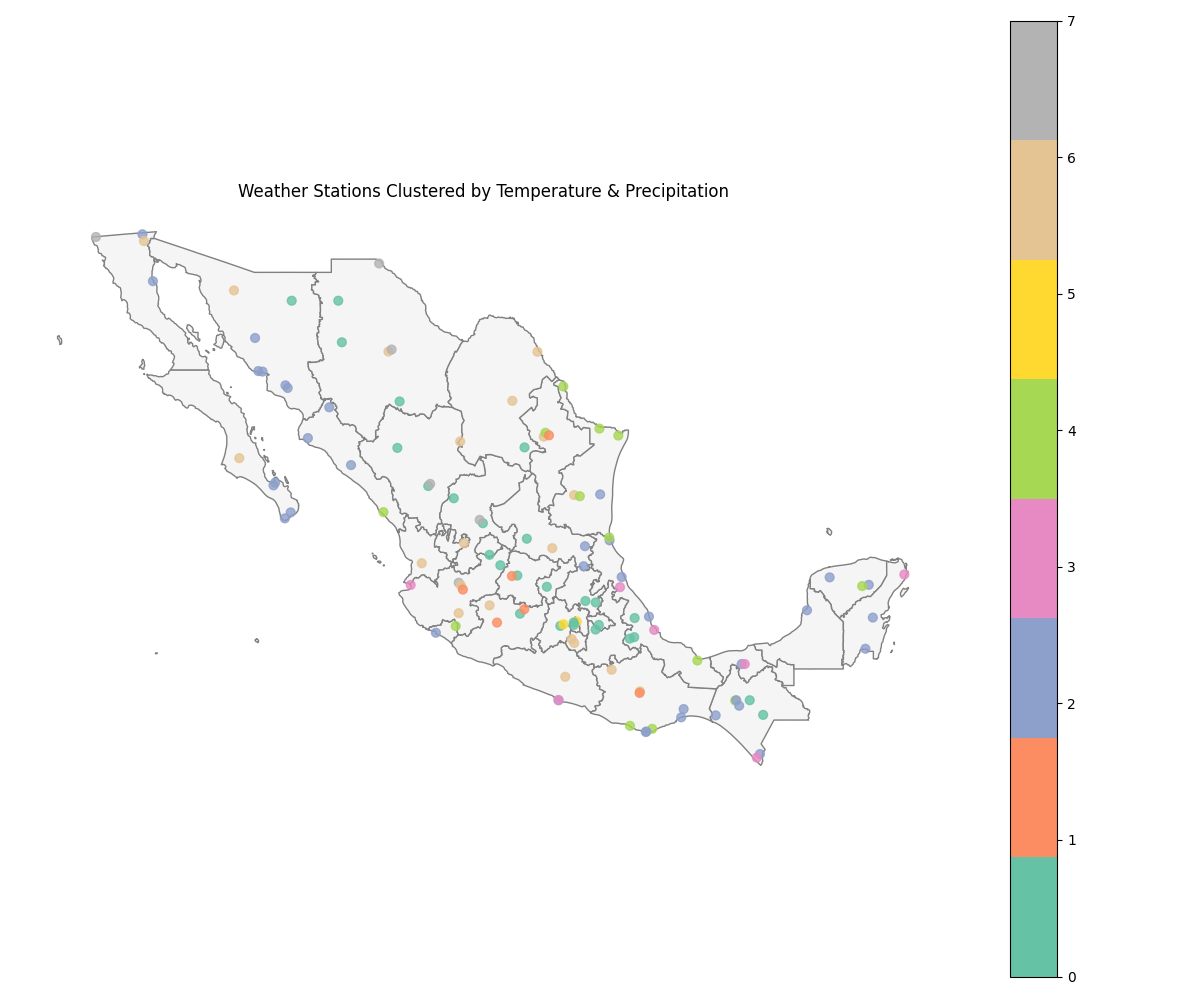
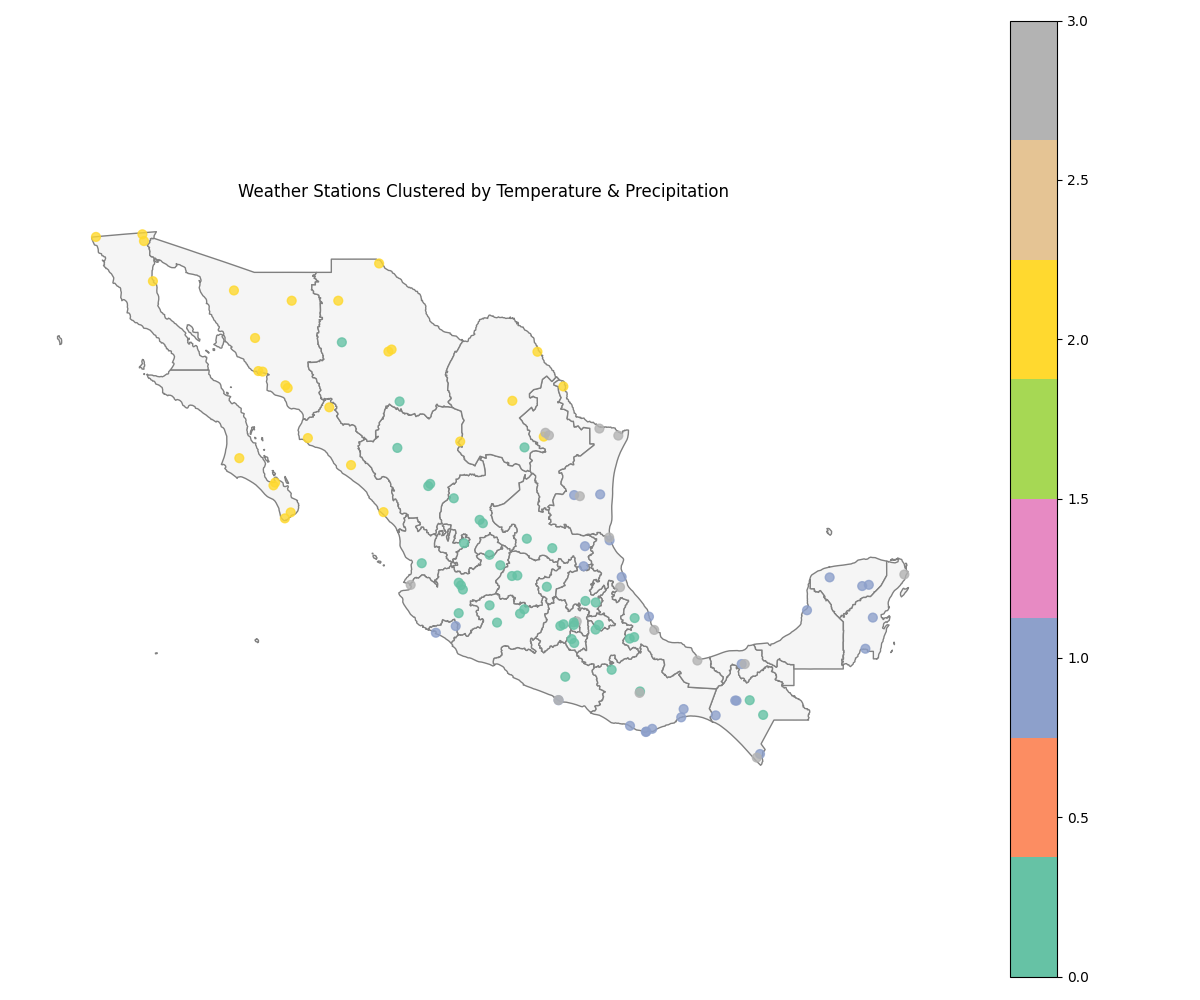
Simple flow to connect multiple python classes

diff --git a/simple_flow.py b/simple_flow.py
@@ -1,0 +1,75 @@
+from forecasting import WeatherForecast
+from clustering import KMeansStationsCluster
+from regressions import StationsLinearRegression
+from mapping import Mapping
+import os
+
+import argparse
+import pandas as pd
+
+dataset_path = "with_states.csv"
+N_CLUSTERS = 3
+
+# Load data
+df = pd.read_csv(dataset_path)
+
+# clustering
+features = ['TEMP', 'PRCP', 'ELEVATION', 'LATITUDE', 'LONGITUDE']
+clus = KMeansStationsCluster(df, features, n_clusters=N_CLUSTERS)
+clus.run()
+clus.plot_clusters()
+clus.save_results()
+
+# mapping (Clustering --> Mapping)
+map = Mapping(clus.stations_with_clusters)
+map.plot(shape_file="states.geojson", output_path="station_clusters_map.png")
+print("Map saved to station_clusters_map.png")
+
+# regression (Clustering --> Regression)
+stations_clustered = clus.stations_with_clusters
+
+for i in range(N_CLUSTERS):
+    stations = stations_clustered[stations_clustered['CLUSTER'] == i]
+    stations = stations.reset_index(drop=True)
+    print(f"Running regression for cluster {i} with {len(stations)} stations")
+    
+    # Create a new dataframe from df only with stations in the cluster
+    df_cluster = df[df['STATION'].isin(stations['STATION'])]
+    df_cluster = df_cluster.reset_index(drop=True)
+
+    # Make some modifications to the dataframe
+
+    # Ensure 'DATE' is datetime
+    df_cluster['DATE'] = pd.to_datetime(df_cluster['DATE'], errors='coerce')
+    # Extract year and convert temperature to numeric
+    df_cluster['YEAR'] = df_cluster['DATE'].dt.year
+    df_cluster['TEMP'] = pd.to_numeric(df_cluster['TEMP'], errors='coerce')
+
+    # Convert from Fahrenheit to Celsius
+    df_cluster['TEMP'] = (df_cluster['TEMP'] - 32) * 5 / 9
+
+    # Drop rows with missing years or temperatures
+    df_cluster = df_cluster.dropna(subset=['YEAR', 'TEMP'])
+
+    # Group by year and compute average temperature
+    avg_temp_per_year = df_cluster.groupby('YEAR')['TEMP'].mean().reset_index()
+
+    # Remove year 2025
+    avg_temp_per_year = avg_temp_per_year[avg_temp_per_year['YEAR'] != 2025]
+
+
+    # Perform regression
+    reg = StationsLinearRegression(avg_temp_per_year, 'YEAR', 'TEMP')
+    reg.fit()
+    reg.plot(output=f"regression_results_cluster_{i}.png")
+    print(f"Regression results for cluster {i} saved to regression_results_cluster_{i}.png")
+
+# Forecasting per station
+stations = df['STATION'].unique()
+
+wf = WeatherForecast(df)
+for station in stations:
+    os.makedirs("results", exist_ok=True)
+    wf.fit(station, column_station_name="STATION", date_column="DATE", temp_column="TEMP")
+    forecast = wf.forecast(days=100)
+    wf.plot(forecast, station, output_prefix="results/forecast")

diff --git a/clustering.py b/clustering.py
@@ -16,17 +16,17 @@ class KMeansStationsCluster(object):
     def run(self):
 
         # Ensure 'DATE' is datetime
-        df['DATE'] = pd.to_datetime(df['DATE'], errors='coerce')
+        self.df['DATE'] = pd.to_datetime(self.df['DATE'], errors='coerce')
 
         # Extract year and convert temperature to numeric
-        df['YEAR'] = df['DATE'].dt.year
+        self.df['YEAR'] = self.df['DATE'].dt.year
 
         if self.year is not None:
             # Filter the dataframe for the specified year
             self.df = self.df[self.df['YEAR'] == self.year]
 
         # Compute average stats per station
-        station_stats = df.groupby('STATION')[self.features].mean().reset_index()
+        station_stats = self.df.groupby('STATION')[self.features].mean().reset_index()
 
         scaler = StandardScaler()
         X_scaled = scaler.fit_transform(station_stats[self.features])
@@ -40,7 +40,7 @@ class KMeansStationsCluster(object):
 
         return self.stations_with_clusters
     
-    def plot_clusters(self):
+    def plot_clusters(self, output_path="cluster_plot.png"):
         plt.figure(figsize=(10, 6))
         sns.scatterplot(data=self.stations_with_clusters, x='TEMP', y='PRCP', hue='CLUSTER', palette='Set2', s=100)
         plt.title("Station Clusters (TEMP vs PRCP)")
@@ -48,7 +48,7 @@ class KMeansStationsCluster(object):
         plt.ylabel("Average Precipitation")
         plt.legend(title="Cluster")
         plt.tight_layout()
-        plt.savefig("cluster_extended.png")
+        plt.savefig(output_path)
         
     
     def save_results(self):
@@ -68,7 +68,7 @@ if __name__ == "__main__":
 
     df = pd.read_csv(args.csv_path)
     
-    clus = KMeansStationsCluster(df, features=args.features, n_clusters=args.n_clusters, year=args.year)
+    clus = KMeansStationsCluster(df, args.features, n_clusters=args.n_clusters, year=args.year)
     clus.run()
     clus.plot_clusters()
     clus.save_results()

diff --git a/forecasting.py b/forecasting.py
@@ -9,21 +9,23 @@ class WeatherForecast:
         self.df = df
 
     def fit(self, station_id, column_station_name, date_column, temp_column):
-        self.df[date_column] = pd.to_datetime(self.df[date_column])
-        self.df = self.df[df[column_station_name] == station_id]
+        print(self.df.columns)
+        self.df_station = self.df[self.df[column_station_name] == station_id]
+        self.df_station = self.df_station.reset_index(drop=True)
 
-        if self.df.empty:
+        if self.df_station.empty:
             print(f"No data found for station {station_id}")
             return
         
-        self.df = self.df[[date_column, temp_column]].replace(9999.9, pd.NA).dropna()
-        self.df[temp_column] = pd.to_numeric(self.df[temp_column], errors='coerce').dropna()
-        self.df[temp_column] = (self.df[temp_column] - 32) * 5 / 9
-        self.df = self.df.rename(columns={date_column: "ds", temp_column: "y"})
+        self.df_station[date_column] = pd.to_datetime(self.df_station[date_column])
+        self.df_station = self.df_station[[date_column, temp_column]].replace(9999.9, pd.NA).dropna()
+        self.df_station[temp_column] = pd.to_numeric(self.df_station[temp_column], errors='coerce').dropna()
+        self.df_station[temp_column] = (self.df_station[temp_column] - 32) * 5 / 9
+        self.df_station = self.df_station.rename(columns={date_column: "ds", temp_column: "y"})
 
         # Fit model
         self.model = Prophet()
-        self.model.fit(self.df)
+        self.model.fit(self.df_station)
 
     def forecast(self, days=30):
         future = self.model.make_future_dataframe(periods=days)

diff --git a/Readme.md b/Readme.md
@@ -2,8 +2,85 @@
 
 ```mermaid
 flowchart TD
-    group_by_state-->clustering
     clustering-->regressions
     clustering-->mapping
     regressions-->forecasting
 ```
+
+This project performs a full pipeline of **clustering**, **mapping**, **temperature trend regression**, and **forecasting** on weather station data. It uses machine learning and data visualization techniques to analyze temperature trends from a dataset of stations with geographic and climate features.
+
+## 📁 Project Structure
+
+- `forecasting.py`: Contains logic for temperature forecasting per station.
+- `clustering.py`: Implements KMeans clustering for grouping stations.
+- `regressions.py`: Applies linear regression to analyze temperature trends within each cluster.
+- `mapping.py`: Plots clustered stations on a geographic map.
+- `with_states.csv`: Input dataset with weather station records and metadata.
+- `states.geojson`: GeoJSON file used to render state boundaries.
+- `results/`: Directory where forecast plots are saved.
+
+## 📊 Features
+
+1. **Clustering**  
+   Uses KMeans to group stations based on:
+   - Temperature (`TEMP`)
+   - Precipitation (`PRCP`)
+   - Elevation
+   - Latitude
+   - Longitude
+
+2. **Mapping**  
+   Visualizes station clusters on a map using a GeoJSON shapefile of U.S. states.
+
+3. **Regression**  
+   For each cluster:
+   - Extracts yearly average temperature.
+   - Converts temperature from Fahrenheit to Celsius.
+   - Performs linear regression to observe trends over years.
+   - Saves regression plots.
+
+4. **Forecasting**  
+   Forecasts future temperatures for each station for the next 100 days and generates forecast plots.
+
+## ▶ Usage
+
+Run the pipeline with:
+
+```bash
+python simple_flow.py
+```
+
+> Ensure that `with_states.csv` and `states.geojson` are present in the same directory or update the paths in the script accordingly.
+
+## 🛠 Requirements
+
+Install the necessary Python packages:
+
+```bash
+pip install pandas matplotlib scikit-learn geopandas statsmodels
+```
+
+## 📦 Output
+
+- **Clustering results** saved via `clus.save_results()`.
+- **Map** of clustered stations saved as `station_clusters_map.png`.
+- **Regression plots** per cluster saved as `regression_results_cluster_<i>.png`.
+- **Forecast plots** per station saved in the `results/` directory.
+
+## 🧾 Dataset Format
+
+The `with_states.csv` file should contain the following columns:
+
+- `STATION`: Station identifier
+- `DATE`: Observation date
+- `TEMP`: Temperature in Fahrenheit
+- `PRCP`: Precipitation
+- `ELEVATION`: Station elevation
+- `LATITUDE`: Latitude
+- `LONGITUDE`: Longitude
+
+## 📍 Notes
+
+- Year 2025 data is excluded from regression.
+- Ensure that the `DATE` column is properly formatted to datetime.
+- All temperatures are converted to Celsius before regression and forecasting.
